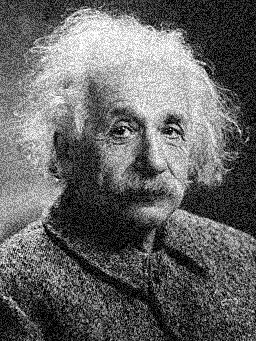
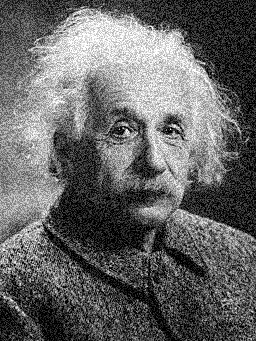
feat: add task 7

diff --git a/challenge-1/src/main.cpp b/challenge-1/src/main.cpp
@@ -227,8 +227,47 @@ int main() {
     const bool A2_is_symmetric = A2.isApprox(A2.transpose());
     printf("\nTask 6. Write the convolution operation corresponding to the sharpening kernel H_{sh2} "
            "as a matrix vector multiplication by a matrix A_{2} having size mn * mn. "
-           "Report the number of non-zero entries in A_{2}. Is A_{2} symmetric?.\nAnswer: %ld, is A_{2} symmetric? %s\n",
+           "Report the number of non-zero entries in A_{2}. Is A_{2} symmetric?\nAnswer: %ld, is A_{2} symmetric? %s\n",
            A2.nonZeros(), A2_is_symmetric ? "true" : "false");
 
+
+    /**********
+     * Task 7 *
+     **********/
+    // Convolution using the matrix multiplication technique
+    VectorXd sharpening_convolution_matrix = A2*v;
+    static MatrixXd sharpening_matrix(height, width);
+    // Fill the matrices with image data
+    for (int i = 0; i < height; ++i) {
+        row_offset = i * width;
+        for (int j = 0; j < width; ++j) {
+            const double val = sharpening_convolution_matrix[row_offset + j];
+            sharpening_matrix(i, j) = val > 255.0 ? 255.0 : (val < 0 ? 0 : val);
+        }
+    }
+    Matrix<unsigned char, Dynamic, Dynamic, RowMajor> sharpening_result(height, width);
+    sharpening_result = sharpening_matrix.unaryExpr([](const double val) -> unsigned char {
+      return static_cast<unsigned char>(val);
+    });
+    // thread feature to speedup I/O operations
+    const char* sharpening_filename = "sharpening.png";
+    const char* clion_sharpening_filename = "../challenge-1/resources/sharpening.png";
+    std::thread sharpening_save(
+        image_manipulation::save_image_to_file,
+        sharpening_filename, width, height, 1, sharpening_result.data(), width
+    );
+    std::thread sharpening_clione_save(
+        image_manipulation::save_image_to_file,
+        clion_sharpening_filename, width, height, 1, sharpening_result.data(), width
+    );
+    sharpening_save.join();
+    sharpening_clione_save.join();
+
+    printf(
+    "\nTask 7. Apply the previous sharpening filter to the original image by performing the matrix "
+    "vector multiplication A_{2}v. Export the resulting image.\nAnswer: see the figure %s\nAnd: %s\n",
+    filesystem::absolute(sharpening_filename).c_str(),
+    filesystem::absolute(clion_sharpening_filename).c_str()
+    );
     return 0;
 }

diff --git a/challenge-1/README.md b/challenge-1/README.md
@@ -51,7 +51,7 @@ and move it to your working directory.
    by a matrix $A_{2}$ having size $mn \times mn$. Report the number of non-zero entries in $A_{2}$.
    Is $A_{2}$ symmetric?
 
-   Answer: 87296, _is $A_{2}$ symmetric?_ true.
+   Answer: 435286, _is $A_{2}$ symmetric?_ false.
 
 ```math
  H_{sh2} = \dfrac{1}{9}\begin{bmatrix}
@@ -60,6 +60,13 @@ and move it to your working directory.
      0 & -1 & 0
  \end{bmatrix}
 ```
+
+7. Apply the previous sharpening filter to the original image by performing the matrix vector multiplication $A_{2}v$.
+   Export the resulting image.
+
+   Answer: see the figure [sharpening.png](resources/sharpening.png).
+
+   <img src="resources/sharpening.png">
 
 
 [1]: https://upload.wikimedia.org/wikipedia/commons/thumb/d/d3/Albert_Einstein_Head.jpg/256px-Albert_Einstein_Head.jpg?20141125195928=&download=
